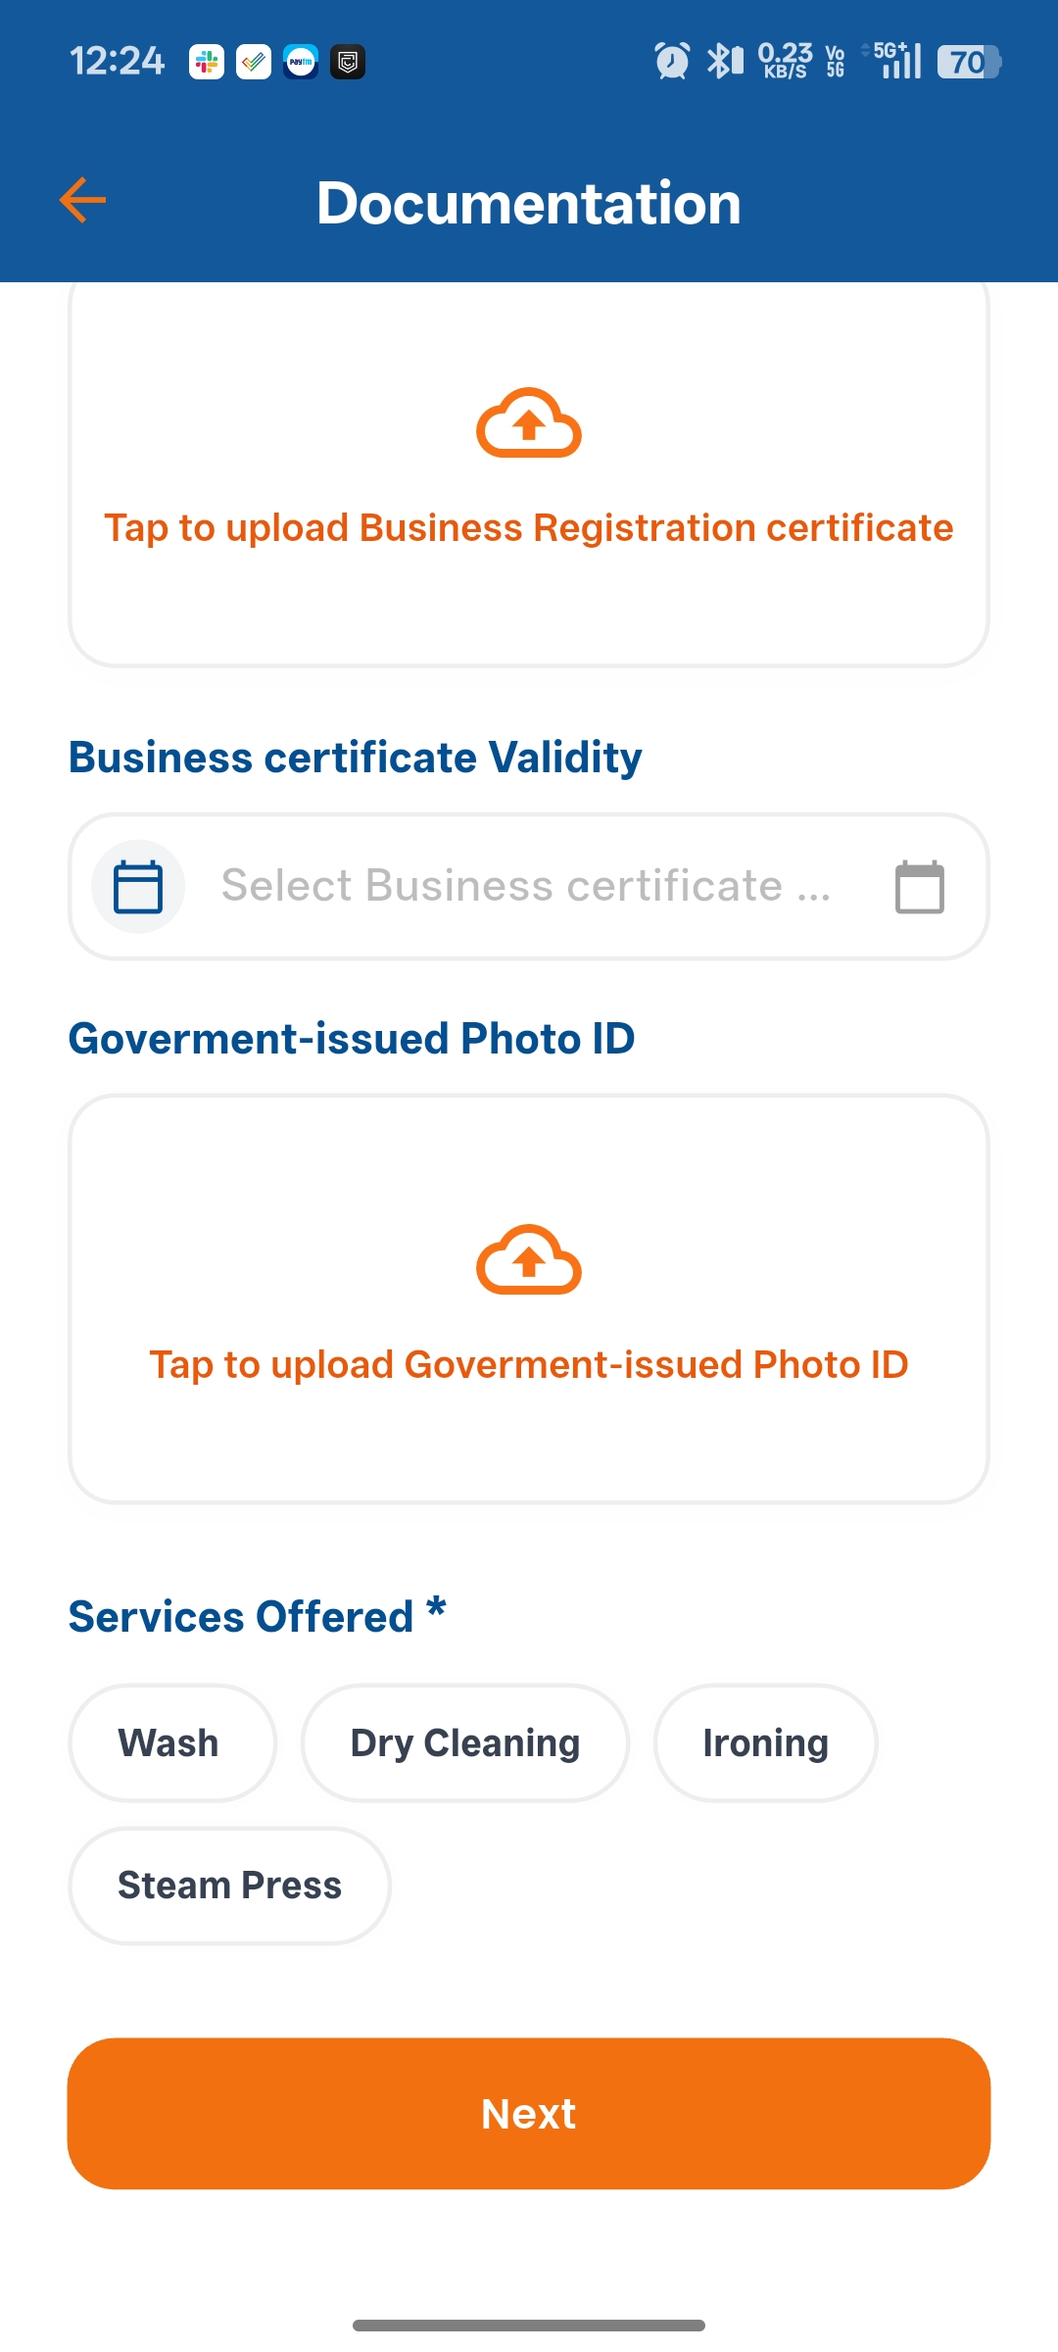
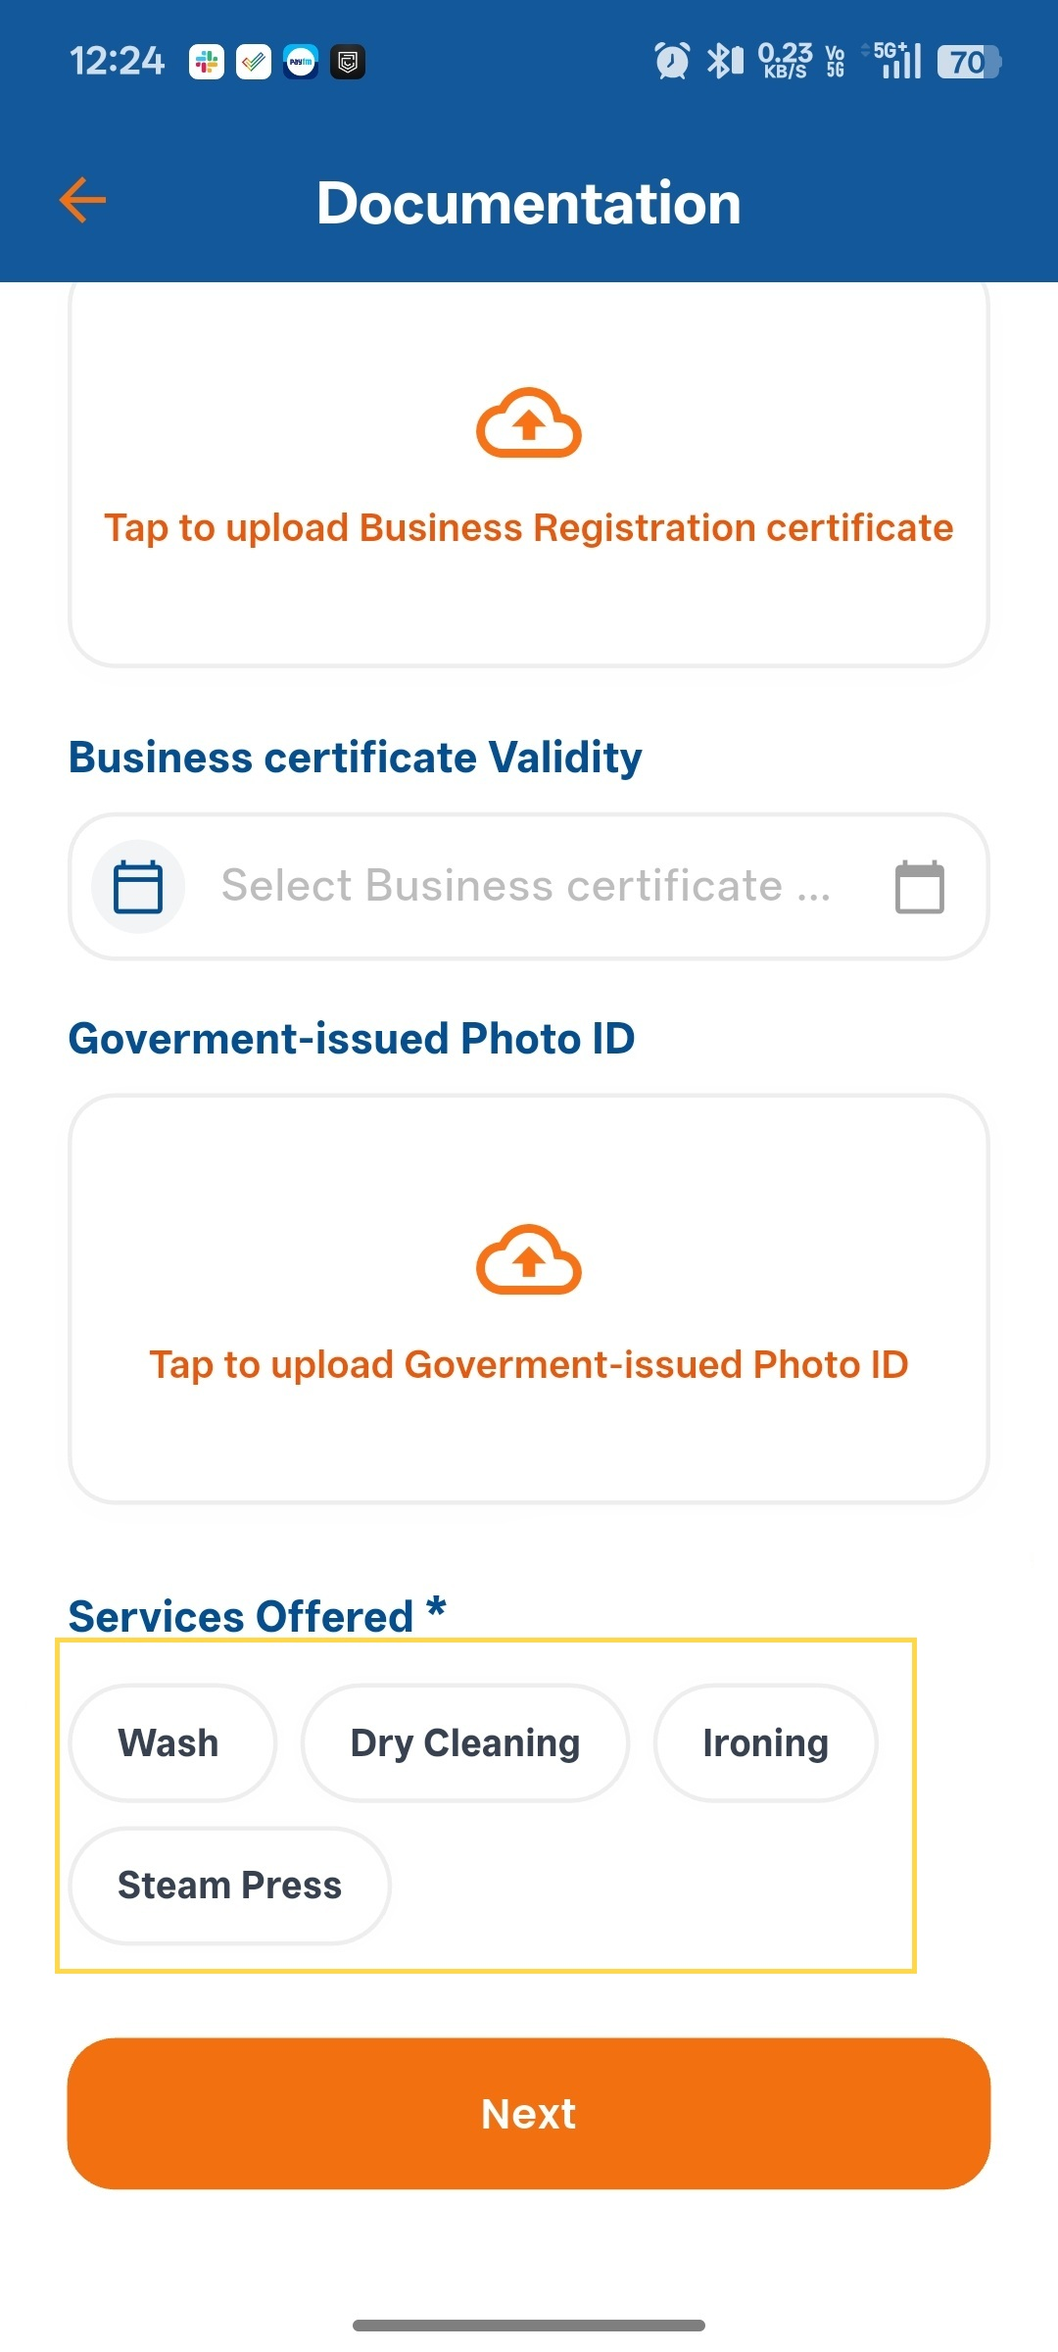
feat: implement site-wide footer, back-to-top navigation, and new landing page sections for services, contact, privacy, and user journeys.

Changed region(s): [[0.8556, 0.6875, 0.8861, 0.8438], [0.0306, 0.6875, 0.0611, 0.8438]]

diff --git a/src/components/Footer.js b/src/components/Footer.js
@@ -7,6 +7,8 @@ import { ScrollTrigger } from 'gsap/ScrollTrigger';
 
 gsap.registerPlugin(ScrollTrigger);
 
+import Link from 'next/link';
+
 const FOOTER_LINKS = {
   services: {
     title: 'Services',
@@ -21,9 +23,9 @@ const FOOTER_LINKS = {
     title: 'Company',
     links: [
       { label: 'About Spinny', href: '/about' },
-      { label: 'How It Works', href: '/#how-it-works-trigger' },
-      { label: 'Vendor Partners', href: '/process' },
-      { label: 'Get the App', href: '/app' },
+      { label: 'How It Works', href: '/process' },
+      { label: 'Why Spinny', href: '/why-spinny' },
+      // { label: 'Get the App', href: '/app' },
     ],
   },
   support: {
@@ -32,7 +34,6 @@ const FOOTER_LINKS = {
       { label: 'Help Center', href: '/help-center' },
       { label: 'Contact Us', href: '/contact' },
       { label: 'FAQs', href: '/help-center#faq' },
-      { label: 'Service Areas', href: '/service-areas' },
     ],
   },
   legal: {
@@ -205,13 +206,15 @@ export default function Footer() {
             {/* ─── Brand Column ─── */}
             <div ref={brandRef} className="lg:col-span-4 flex flex-col items-start text-left">
               <div className="mb-5">
-                <Image
-                  src="/darklogo.png"
-                  alt="Spinny"
-                  width={130}
-                  height={40}
-                  className="h-9 w-auto"
-                />
+                <Link href="/">
+                  <Image
+                    src="/darklogo.png"
+                    alt="Spinny"
+                    width={130}
+                    height={40}
+                    className="h-9 w-auto"
+                  />
+                </Link>
               </div>
               <p className="text-sm leading-relaxed mb-6 max-w-sm text-slate-300 font-normal">
                 <strong className="text-white font-semibold block mb-1">Laundry Done, Life On.</strong>
@@ -245,7 +248,7 @@ export default function Footer() {
                   <ul className="space-y-3">
                     {column.links.map((link) => (
                       <li key={link.label}>
-                        <a
+                        <Link
                           href={link.href}
                           className="footer-link group relative inline-block text-sm transition-colors duration-200 text-slate-300 hover:text-white font-normal"
                         >
@@ -254,7 +257,7 @@ export default function Footer() {
                             className="absolute -bottom-0.5 left-0 h-[1.5px] w-0 group-hover:w-full transition-all duration-300 origin-left bg-[#F7941D]"
                             aria-hidden="true"
                           />
-                        </a>
+                        </Link>
                       </li>
                     ))}
                   </ul>
@@ -280,13 +283,13 @@ export default function Footer() {
                 { label: 'Privacy Policy', href: '/privacy-policy' },
                 { label: 'Terms of Use', href: '/terms-of-service' },
               ].map((item) => (
-                <a
+                <Link
                   key={item.label}
                   href={item.href}
                   className="text-xs transition-colors duration-200 text-slate-400 hover:text-white font-normal"
                 >
                   {item.label}
-                </a>
+                </Link>
               ))}
             </div>
           </div>

diff --git a/src/app/why-spinny/page.js b/src/app/why-spinny/page.js
@@ -13,27 +13,27 @@ export default function WhySpinnyPage() {
   return (
     <main className="min-h-screen bg-white text-[#0E3A66]">
       {/* 1. HERO HEADER */}
-      <section className="relative w-full pt-36 pb-20 lg:pt-44 lg:pb-24 text-white overflow-hidden bg-[#0B1726]">
-        {/* Background Image with Dark Overlay */}
-        <div className="absolute inset-0 z-0">
+      {/* <section className="relative w-full pt-36 pb-20 lg:pt-44 lg:pb-24 text-white overflow-hidden bg-[#0B1726]"> */}
+      {/* Background Image with Dark Overlay */}
+      {/* <div className="absolute inset-0 z-0">
           <Image
             src="/banner1.png"
             alt="Why Spinny Background"
             fill
             priority
             className="object-cover object-center"
-          />
-          {/* <div className="absolute inset-0 bg-gradient-to-b from-[#0B1726]/90 via-[#0B1726]/80 to-[#0B1726]" /> */}
-        </div>
+          /> */}
+      {/* <div className="absolute inset-0 bg-gradient-to-b from-[#0B1726]/90 via-[#0B1726]/80 to-[#0B1726]" /> */}
+      {/* </div> */}
 
-        {/* Ambient Glows & Grid Pattern */}
-        <div className="absolute inset-0 pointer-events-none overflow-hidden z-10" aria-hidden="true">
+      {/* Ambient Glows & Grid Pattern */}
+      {/* <div className="absolute inset-0 pointer-events-none overflow-hidden z-10" aria-hidden="true">
           <div className="absolute inset-0 bg-[linear-gradient(to_right,rgba(255,255,255,0.03)_1px,transparent_1px),linear-gradient(to_bottom,rgba(255,255,255,0.03)_1px,transparent_1px)] bg-[size:4rem_4rem]" />
           <div className="absolute -top-24 right-10 w-96 h-96 rounded-full bg-[radial-gradient(circle,rgba(247,148,29,0.25)_0%,transparent_70%)] blur-3xl" />
           <div className="absolute -bottom-20 -left-10 w-[30rem] h-[30rem] rounded-full bg-[radial-gradient(circle,rgba(56,189,248,0.15)_0%,transparent_70%)] blur-3xl" />
-        </div>
+        </div> */}
 
-        <div className="max-w-4xl mx-auto px-6 md:px-12 text-center relative z-20">
+      {/* <div className="max-w-4xl mx-auto px-6 md:px-12 text-center relative z-20">
           <div className="inline-flex items-center gap-2 px-4 py-1.5 rounded-full bg-orange-500/10 border border-orange-500/25 text-[#F7941D] text-xs sm:text-sm font-bold tracking-wider uppercase mb-6 backdrop-blur-md shadow-[0_2px_12px_rgba(247,148,29,0.15)]">
             <span className="w-2 h-2 rounded-full bg-[#F7941D] animate-pulse" />
             <span>WHY SPINNY</span>
@@ -46,11 +46,14 @@ export default function WhySpinnyPage() {
 
           <p className="text-base sm:text-lg md:text-xl text-slate-200 leading-relaxed font-normal max-w-2xl mx-auto mb-8">
             Stop spending your valuable weekends doing laundry, dry cleaning runs, and shoe care. Let Spinny handle the load while you focus on what actually matters.
-          </p>
+          </p> */}
 
-          <AppStoreButtons className="justify-center" />
-        </div>
-      </section>
+      {/* <AppStoreButtons className="justify-center" /> */}
+      {/* </div> */}
+      {/* </section> */}
+
+
+      <section className="relative w-full pt-10 pb-10 lg:pt-10 lg:pb-10 text-white overflow-hidden bg-[#0B1726]"></section>
 
       {/* 2. HOURS LEDGER SECTION (IN THE MIDDLE) */}
       <HoursLedger />

diff --git a/src/components/contact/sections/ContactInfo.js b/src/components/contact/sections/ContactInfo.js
@@ -1,9 +1,12 @@
+'use client';
+
+import { useEffect } from 'react';
 import { PRIVACY_CONTACT } from '@/components/data';
 
 const INFOS = [
   {
     label: 'Email Support',
-    value: 'hello@washr.example',
+    value: 'hi@spinnylaundry.com',
     icon: (
       <svg width="20" height="20" viewBox="0 0 24 24" fill="none" stroke="currentColor" strokeWidth="2" strokeLinecap="round" strokeLinejoin="round">
         <path d="M4 4h16c1.1 0 2 .9 2 2v12c0 1.1-.9 2-2 2H4c-1.1 0-2-.9-2-2V6c0-1.1.9-2 2-2z" />
@@ -33,6 +36,10 @@ const INFOS = [
 ];
 
 export default function ContactInfo() {
+  useEffect(() => {
+    window.scrollTo(0, 0);
+  }, []);
+
   return (
     <section className="mt-20 scroll-mt-28">
       <div className="grid gap-6 md:grid-cols-3">
@@ -59,18 +66,18 @@ export default function ContactInfo() {
               Priority Service
             </p>
             <h2 className="text-2xl md:text-3xl font-bold leading-tight">
-              Looking for commercial partner services?
+              Need specialized care for your wardrobe or home items?
             </h2>
             <p className="mt-4 text-sm md:text-base leading-7 text-white/75 max-w-3xl">
-              We offer dedicated routes, customized detergents, invoicing, and high-capacity options for hotels, gyms, salons, and offices. Drop us a note via email or select "Vendor Partnership" in the form above and our operations manager will contact you directly.
+              From delicate garments and designer footwear to large home textiles, our personal concierge team is here to help. Send us a note via the form above or email our support team directly.
             </p>
           </div>
           <div className="flex gap-4">
             <a
-              href="mailto:partners@washr.example"
+              href="mailto:hi@spinnylaundry.com"
               className="inline-flex items-center justify-center rounded-full bg-white px-6 py-3.5 text-sm font-bold text-washr-blue-deep transition hover:bg-slate-50 active:scale-[0.98]"
             >
-              Email Business Team
+              Email Customer Care
             </a>
           </div>
         </div>

diff --git a/src/app/the-spinny-4/page.js b/src/app/the-spinny-4/page.js
@@ -13,9 +13,9 @@ export default function TheSpinny4Page() {
   return (
     <main className="min-h-screen bg-white text-[#0E3A66]">
       {/* 1. HERO HEADER */}
-      <section className="relative w-full pt-36 pb-20 lg:pt-44 lg:pb-24 text-white overflow-hidden bg-[#0B1726]">
+      {/* <section className="relative w-full pt-36 pb-20 lg:pt-44 lg:pb-24 text-white overflow-hidden bg-[#0B1726]">
         {/* Background Image with Dark Overlay */}
-        <div className="absolute inset-0 z-0">
+      {/* <div className="absolute inset-0 z-0">
           <Image
             src="/ironing.jpg"
             alt="The Spinny 4 Background"
@@ -27,7 +27,7 @@ export default function TheSpinny4Page() {
         </div>
 
         {/* Ambient Glows & Grid Pattern */}
-        <div className="absolute inset-0 pointer-events-none overflow-hidden z-10" aria-hidden="true">
+      {/* <div className="absolute inset-0 pointer-events-none overflow-hidden z-10" aria-hidden="true">
           <div className="absolute inset-0 bg-[linear-gradient(to_right,rgba(255,255,255,0.03)_1px,transparent_1px),linear-gradient(to_bottom,rgba(255,255,255,0.03)_1px,transparent_1px)] bg-[size:4rem_4rem]" />
           <div className="absolute -top-24 right-10 w-96 h-96 rounded-full bg-[radial-gradient(circle,rgba(247,148,29,0.25)_0%,transparent_70%)] blur-3xl" />
           <div className="absolute -bottom-20 -left-10 w-[30rem] h-[30rem] rounded-full bg-[radial-gradient(circle,rgba(56,189,248,0.15)_0%,transparent_70%)] blur-3xl" />
@@ -50,8 +50,11 @@ export default function TheSpinny4Page() {
 
           <AppStoreButtons className="justify-center" />
         </div>
-      </section>
+      </section> */}
 
+      <section className="relative w-full pt-10 pb-10 lg:pt-10 lg:pb-10 text-white overflow-hidden bg-[#0B1726]">
+
+      </section>
       {/* 2. SIMPLE 4-STEP PROCESS SECTION (IN THE MIDDLE) */}
       <SimpleFlowSection />
 

diff --git a/src/components/process/DriverJourneySection.js b/src/components/process/DriverJourneySection.js
@@ -34,7 +34,7 @@ const DRIVER_STEPS = [
     title: 'Document Upload',
     badge: 'Step 3',
     desc: 'Upload your driver license, vehicle registration, and valid vehicle insurance policy.',
-    image: '/screens/vendrorDocumentation.jpg',
+    image: '/screens/driverDoc.jpg',
     icon: (
       <svg className="w-5 h-5" fill="none" viewBox="0 0 24 24" stroke="currentColor" strokeWidth={2}>
         <path strokeLinecap="round" strokeLinejoin="round" d="M4 16v1a3 3 0 003 3h10a3 3 0 003-3v-1m-4-8l-4-4m0 0L8 8m4-4v12" />
@@ -55,7 +55,7 @@ const DRIVER_STEPS = [
   },
   {
     id: 4,
-    title: 'start Acepting Orders',
+    title: 'Start Accepting Orders',
     badge: 'Step 5',
     desc: 'Receive live route notifications on your driver app and accept available order dispatch requests.',
     image: '/screens/corder.jpeg',
@@ -83,7 +83,7 @@ const DRIVER_STEPS = [
     title: 'Get Delivery Done',
     badge: 'Step 8',
     desc: 'Hand over freshly cleaned closet-ready clothes, capture customer confirmation, and mark order delivered.',
-    image: '/screens/dashboard1.png',
+    image: '/screens/driverdash.png',
     icon: (
       <svg className="w-5 h-5" fill="none" viewBox="0 0 24 24" stroke="currentColor" strokeWidth={2}>
         <path strokeLinecap="round" strokeLinejoin="round" d="M9 12l2 2 4-4m6 2a9 9 0 11-18 0 9 9 0 0118 0z" />

diff --git a/src/components/privacy-policy/sections/PrivacyHero.js b/src/components/privacy-policy/sections/PrivacyHero.js
@@ -4,6 +4,8 @@ import { useEffect, useRef } from 'react';
 import Link from 'next/link';
 import { gsap } from 'gsap';
 import { PRIVACY_HERO_CONTENT } from '@/components/data';
+import AppDownloadBanner from '@/components/process/AppDownloadBanner';
+import AppStoreButtons from '@/components/AppStoreButtons';
 
 export default function PrivacyHero() {
   const sectionRef = useRef(null);
@@ -59,7 +61,7 @@ export default function PrivacyHero() {
 
           {/* CTAs */}
           <div className="mt-8 flex flex-wrap items-center justify-center gap-4">
-            {PRIVACY_HERO_CONTENT.buttons.map((btn) => (
+            {/* {PRIVACY_HERO_CONTENT.buttons.map((btn) => (
               <Link
                 key={btn.label}
                 href={btn.url}
@@ -71,7 +73,8 @@ export default function PrivacyHero() {
               >
                 <span>{btn.label}</span>
               </Link>
-            ))}
+            ))} */}
+            <AppStoreButtons />
           </div>
         </div>
       </div>

diff --git a/src/app/app/page.js b/src/app/app/page.js
@@ -1,21 +1,19 @@
 import AppHero from '@/components/app/sections/AppHero';
 import AppFeatures from '@/components/app/sections/AppFeatures';
 import AppScreens from '@/components/app/sections/AppScreens';
-import AppDownloadBanner from '@/components/process/AppDownloadBanner';
 
 export const metadata = {
-  title: 'Get the Spinny App | Spinny',
+  title: 'Get the App | Spinny Mobile',
   description:
-    'Book pickups, track drivers, and manage every order from the Spinny mobile app. Coming soon to iOS and Android.',
+    'Download the Spinny mobile app for iOS and Android. Book pickups, track laundry status in real-time, and manage wardrobe care.',
 };
 
 export default function AppPage() {
   return (
-    <main className="min-h-screen bg-white pb-20">
+    <main className="min-h-screen bg-white text-[#0E3A66] selection:bg-[#F7941D] selection:text-white">
       <AppHero />
       <AppFeatures />
       <AppScreens />
-      <AppDownloadBanner />
     </main>
   );
 }

diff --git a/src/app/contact/page.js b/src/app/contact/page.js
@@ -1,6 +1,8 @@
+import ScrollToTop from '@/components/ScrollToTop';
 import ContactHero from '@/components/contact/sections/ContactHero';
 import ContactForm from '@/components/contact/sections/ContactForm';
 import ContactInfo from '@/components/contact/sections/ContactInfo';
+import AppDownloadBanner from '@/components/process/AppDownloadBanner';
 
 export const metadata = {
   title: 'Contact Us | Spinny',
@@ -11,12 +13,18 @@ export const metadata = {
 export default function ContactPage() {
   return (
     <main className="min-h-screen bg-white pb-20">
-      <ContactHero />
+      <ScrollToTop />
+      {/* <ContactHero /> */}
+      <section className="relative w-full pt-10 pb-10 lg:pt-10 lg:pb-10 text-white overflow-hidden bg-[#0B1726]">
+
+      </section>
 
       <div className="max-w-7xl mx-auto px-6 md:px-12 lg:px-16">
         {/* <ContactForm /> */}
         <ContactInfo />
+
       </div>
+      <AppDownloadBanner />
     </main>
   );
 }

diff --git a/src/components/process/JourneyIntroCards.js b/src/components/process/JourneyIntroCards.js
@@ -106,7 +106,7 @@ export default function JourneyIntroCards() {
                   onClick={() => handleScrollTo(item.id)}
                   className="w-full py-3 px-4 rounded-xl bg-slate-50 hover:bg-[#0E3A66] text-[#0E3A66] hover:text-white font-semibold text-sm transition-all duration-200 border border-slate-200 hover:border-transparent flex items-center justify-center space-x-2"
                 >
-                  <span>Explore {item.role} Flow</span>
+                  <span>Explore </span>
                   <svg className="w-4 h-4" fill="none" viewBox="0 0 24 24" stroke="currentColor">
                     <path strokeLinecap="round" strokeLinejoin="round" strokeWidth={2} d="M14 5l7 7m0 0l-7 7m7-7H3" />
                   </svg>

diff --git a/src/components/home/sections/ServiceEcosystem.js b/src/components/home/sections/ServiceEcosystem.js
@@ -224,7 +224,7 @@ export default function ServiceEcosystem() {
                   <div
                     className="inline-flex items-center gap-1.5 px-3.5 py-2 rounded-full bg-[#0E243A] text-white text-xs font-bold shrink-0 shadow-md group-hover:bg-[#F28C28] transition-all duration-300"
                   >
-                    <span>Explore Service</span>
+                    <span>Explore </span>
                     <svg className="w-3.5 h-3.5 transition-transform group-hover:translate-x-1" fill="none" viewBox="0 0 24 24" stroke="currentColor" strokeWidth={2.5}>
                       <path strokeLinecap="round" strokeLinejoin="round" d="M14 5l7 7m0 0l-7 7m7-7H3" />
                     </svg>

diff --git a/src/app/help-center/page.js b/src/app/help-center/page.js
@@ -30,14 +30,14 @@ export default function HelpCenterPage() {
           />
         </section> */}
 
-        <section className="mt-16">
+        {/* <section className="mt-16">
           <PageCTA
             title="Still need help? Start with support and we’ll route it correctly."
             description="If the FAQ did not cover your question, send feedback or contact the support team directly. We’ll point you to the right next step."
             primary={{ label: 'Send feedback', url: '#feedback' }}
             secondary={{ label: 'Contact us', url: '/contact' }}
           />
-        </section>
+        </section> */}
       </div>
     </main>
   );

diff --git a/src/components/process/VendorJourneySection.js b/src/components/process/VendorJourneySection.js
@@ -22,7 +22,7 @@ const VENDOR_STEPS = [
     title: 'Upload Document',
     badge: 'Step 2',
     desc: 'Upload legal business licenses, tax certificates, and commercial insurance coverage documentation.',
-    image: '/screens/vendrorDocumentation.jpg',
+    image: '/screens/documentUpload.jpg',
     icon: (
       <svg className="w-5 h-5" fill="none" viewBox="0 0 24 24" stroke="currentColor" strokeWidth={2}>
         <path strokeLinecap="round" strokeLinejoin="round" d="M9 12h6m-6 4h6m2 5H7a2 2 0 01-2-2V5a2 2 0 012-2h5.586a1 1 0 01.707.293l5.414 5.414a1 1 0 01.293.707V19a2 2 0 01-2 2z" />
